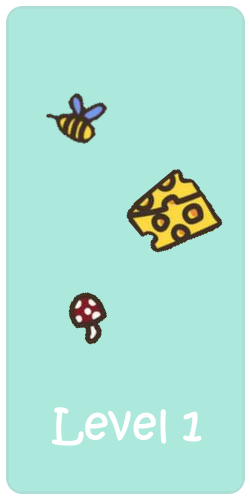
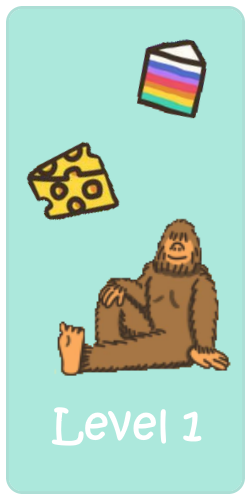
updated used characters due to changing screen size

Changed region(s): [[0.224, 0.33, 0.924, 0.75], [0.112, 0.18, 0.476, 0.45], [0.532, 0.06, 0.84, 0.24]]

diff --git a/src/assets/character-imports.js b/src/assets/character-imports.js
@@ -1,7 +1,7 @@
 // Level 1
-import bee from "./images/bee.png";
+import bigfoot from "./images/bigfoot.png";
 import cheese from "./images/cheese.png";
-import mushroom from "./images/mushroom.png";
+import rainbow_cake from "./images/rainbow_cake.png";
 
 // Level 2
 import mangosteen from "./images/mangosteen.png";
@@ -10,12 +10,12 @@ import thicc_frog from "./images/thicc-frog.png";
 
 const getCharImg = (characterName) => {
   switch (characterName) {
-    case "bee":
-      return bee;
+    case "bigfoot":
+      return bigfoot;
     case "cheese":
       return cheese;
-    case "mushroom":
-      return mushroom;
+    case "rainbow-cake":
+      return rainbow_cake;
     case "mangosteen":
       return mangosteen;
     case "pineapple-plant":
